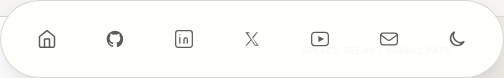
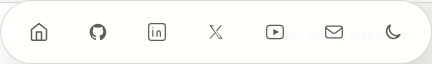
Compact social dock and pin section navigation while scrolling

diff --git a/src/index.css b/src/index.css
@@ -56,6 +56,7 @@
   --type-heading: clamp(32px, 3.5vw, 48px);
   --bg-secondary: var(--surface-soft);
   --card-shadow: none;
+  --page-gutter: 56px;
   font-family: var(--font-display);
   font-synthesis: none;
   text-rendering: optimizeLegibility;
@@ -94,7 +95,7 @@
 }
 html {
   scroll-behavior: smooth;
-  scroll-padding-top: 24px;
+  scroll-padding-top: calc(100px + env(safe-area-inset-top, 0px));
   scroll-padding-bottom: 110px;
 }
 body {
@@ -278,6 +279,19 @@ main:focus {
   border-radius: 18px;
   background: var(--surface);
   box-shadow: 0 4px 14px -10px #0003;
+}
+.section-nav-slot {
+  width: 207px;
+  height: 60px;
+}
+.section-nav-header {
+  position: fixed;
+  z-index: 60;
+  top: calc(12px + env(safe-area-inset-top, 0px));
+  right: max(
+    calc(var(--page-gutter) + env(safe-area-inset-right, 0px)),
+    calc((100% - 1248px) / 2)
+  );
 }
 .section-nav-item {
   position: relative;
@@ -1103,7 +1117,7 @@ summary::-webkit-details-marker {
   display: flex;
   align-items: center;
   justify-content: space-between;
-  padding: 14px 22px;
+  padding: 9px 16px;
   border: 1px solid var(--dock-border);
   border-radius: 999px;
   background: var(--dock-bg);
@@ -1112,8 +1126,8 @@ summary::-webkit-details-marker {
   box-shadow:
     0 12px 36px -16px #0005,
     inset 0 1px 0 #ffffff08;
-  width: min(504px, calc(100% - 24px));
-  height: 78px;
+  width: min(432px, calc(100% - 24px));
+  height: 64px;
 }
 .dock-item {
   position: relative;
@@ -1121,8 +1135,8 @@ summary::-webkit-details-marker {
   align-items: center;
   justify-content: center;
   min-width: 44px;
-  width: 48px;
-  height: 48px;
+  width: 44px;
+  height: 44px;
   flex-shrink: 0;
   border-radius: 50%;
   background: transparent;
@@ -1214,6 +1228,9 @@ summary::-webkit-details-marker {
   }
 }
 @media (max-width: 1100px) {
+  :root {
+    --page-gutter: 40px;
+  }
   .container {
     width: calc(100% - 80px);
   }
@@ -1262,6 +1279,9 @@ summary::-webkit-details-marker {
   }
 }
 @media (max-width: 767px) {
+  :root {
+    --page-gutter: 20px;
+  }
   .container {
     width: calc(100% - 40px);
   }
@@ -1278,6 +1298,13 @@ summary::-webkit-details-marker {
     gap: 2px;
     padding: 4px;
     border-radius: 15px;
+  }
+  .section-nav-slot {
+    width: 192px;
+    height: 54px;
+  }
+  .section-nav-header {
+    top: calc(9px + env(safe-area-inset-top, 0px));
   }
   .wordmark-domain {
     display: none;
@@ -1563,6 +1590,9 @@ summary::-webkit-details-marker {
   }
 }
 @media (max-width: 360px) {
+  :root {
+    --page-gutter: 16px;
+  }
   .dock-shell {
     width: calc(100% - 4px);
     padding-inline: 3px;

diff --git a/src/components/Navigation.tsx b/src/components/Navigation.tsx
@@ -18,9 +18,13 @@ function useActiveSection(): SectionId {
 
     const update = () => {
       frame = 0;
-      const readingLine = Math.min(
-        220,
-        Math.max(72, window.innerHeight * 0.28),
+      const navigationBottom =
+        document.querySelector(".section-nav")?.getBoundingClientRect()
+          .bottom ?? 72;
+      // Include anchored headings below the fixed navigation on short screens.
+      const readingLine = Math.max(
+        navigationBottom + 72,
+        Math.min(220, Math.max(144, window.innerHeight * 0.28)),
       );
       let current: SectionId = "hero";
 

diff --git a/src/App.tsx b/src/App.tsx
@@ -42,7 +42,9 @@ export default function App() {
           >
             Resume <Icon name="external-link" size={14} />
           </a>
-          <Navigation placement="header" />
+          <div className="section-nav-slot">
+            <Navigation placement="header" />
+          </div>
         </div>
       </header>
       <main id="main-content" tabIndex={-1}>

diff --git a/docs/REDESIGN.md b/docs/REDESIGN.md
@@ -33,7 +33,7 @@ Speech Relay has a code-native architecture illustration explicitly labelled as 
 
 Open-source work is a bundled evidence browser with repository filtering, status counts, dates, and direct PR links. On desktop the repository list scrolls independently; on mobile it becomes a horizontal keyboard-accessible selector. The initial five records can expand to the full technical snapshot. Counts distinguish merged, open, and closed without merge.
 
-Home / Work / Open source / Contact form a compact navigation capsule in the top-right header. A separate centered floating pill follows the supplied social-dock reference: Home / GitHub / LinkedIn / X / YouTube / Email / Theme. Instagram remains in the contact links. All seven dock controls fit at 320px with at least 44px touch targets. Resume appears beside the header navigation on desktop and remains in the hero and contact section on mobile. Tooltips appear on hover/focus, header section state follows scrolling, and only the floating dock icon contents magnify on fine pointers without reduced motion. Safe-area and bottom spacing keep contact and focused controls clear of the dock.
+Home / Work / Open source / Contact form a compact navigation capsule fixed at the top-right of the viewport, so it remains available while scrolling in either direction. The wordmark and desktop header Resume remain in normal page flow. A separate centered floating pill follows the supplied social-dock reference: Home / GitHub / LinkedIn / X / YouTube / Email / Theme. The bottom dock is 432×64px on desktop; all seven controls still fit at 320px with at least 44px touch targets. Instagram remains in the contact links. Resume remains in the hero and contact section on mobile. Tooltips appear on hover/focus, section state follows scrolling, and only the bottom dock icon contents magnify on fine pointers without reduced motion. Safe-area insets, anchor offsets, and bottom spacing keep destination headings and focused controls clear of navigation.
 
 Boot animations, wallpaper presentation, sounds, cursor effects, and animation-dependent content reveals were removed, along with their obsolete components and tests. Essential content renders immediately. Theme switching preserves scroll and expanded content. The pre-paint script and React provider share the configurable `csy20-theme` key, handle unavailable storage/media APIs, follow the initial system preference, and update theme-color.
 
@@ -65,6 +65,7 @@ All original project, source, release, Play Store, resume, email, and social des
 - Actual Chromium 200% browser zoom: both themes passed at a 1280-pixel physical window / 640-pixel CSS viewport. `chrome.tabs.getZoom()` confirmed 2; this was real browser zoom rather than a screenshot scale.
 - Keyboard interaction: skip navigation, all core dock links, active-section updates, focus tooltips, all 14 repository filters, native project details, contribution expansion, theme persistence, and scroll/content preservation passed. Focused controls remained clear of the dock.
 - Navigation follow-up: the section navigation moved to the header and a separate social/theme dock now follows the supplied reference. Both themes passed 44px target checks, keyboard tooltips, header active states, preserved destinations, theme persistence after reload, scroll/expanded-content preservation, focused contact-email clearance, and overflow checks at 320px, 390px, 768px, 1440px, 1920px, 320×480, and 1440×600. See [the report](validation/two-navigation.json), [desktop light](screenshots/navigation-desktop-light.png), [desktop dark](screenshots/navigation-desktop-dark.png), [mobile light](screenshots/navigation-mobile-light.png), and [mobile dark](screenshots/navigation-mobile-dark.png). The earlier header-control report/screenshots remain as a historical checkpoint.
+- Compact/pinned follow-up: desktop dock reduced from 504×78px to 432×64px; top-right navigation remains at the same viewport position during scrolling. Both themes passed nine viewport profiles, including 640×450 and 320×320, with correct anchor landing/highlights, keyboard tooltips, 44px touch targets, persistent themes, and no horizontal overflow. See [the current report](validation/pinned-navigation.json) and scrolling examples in [desktop dark](screenshots/pinned-nav-desktop-dark.png) and [mobile dark](screenshots/pinned-nav-mobile-dark.png). Build, lint, all 25 existing tests, and six affected tests after the active-section adjustment passed.
 - Automated accessibility: zero Axe WCAG A/AA violations at 320 and 1440 pixels in both themes. The initial mobile scan could not resolve 27 clipped/short-text nodes. Each of the 15 repository-selector states was subsequently scrolled into view and rechecked in both themes with zero violations or unresolved checks; the raw reports retain the original incomplete results.
 - Nginx runtime: both themes, navigation, resume/portrait/manifest/CNAME assets, and SPA fallback passed with no browser errors and no contribution API requests. `nginx -t` and Compose configuration validation passed. The temporary QA container was removed after verification.
 - Reduced motion: hover magnification stayed off, transitions/animations were disabled, and all essential content remained visible.
